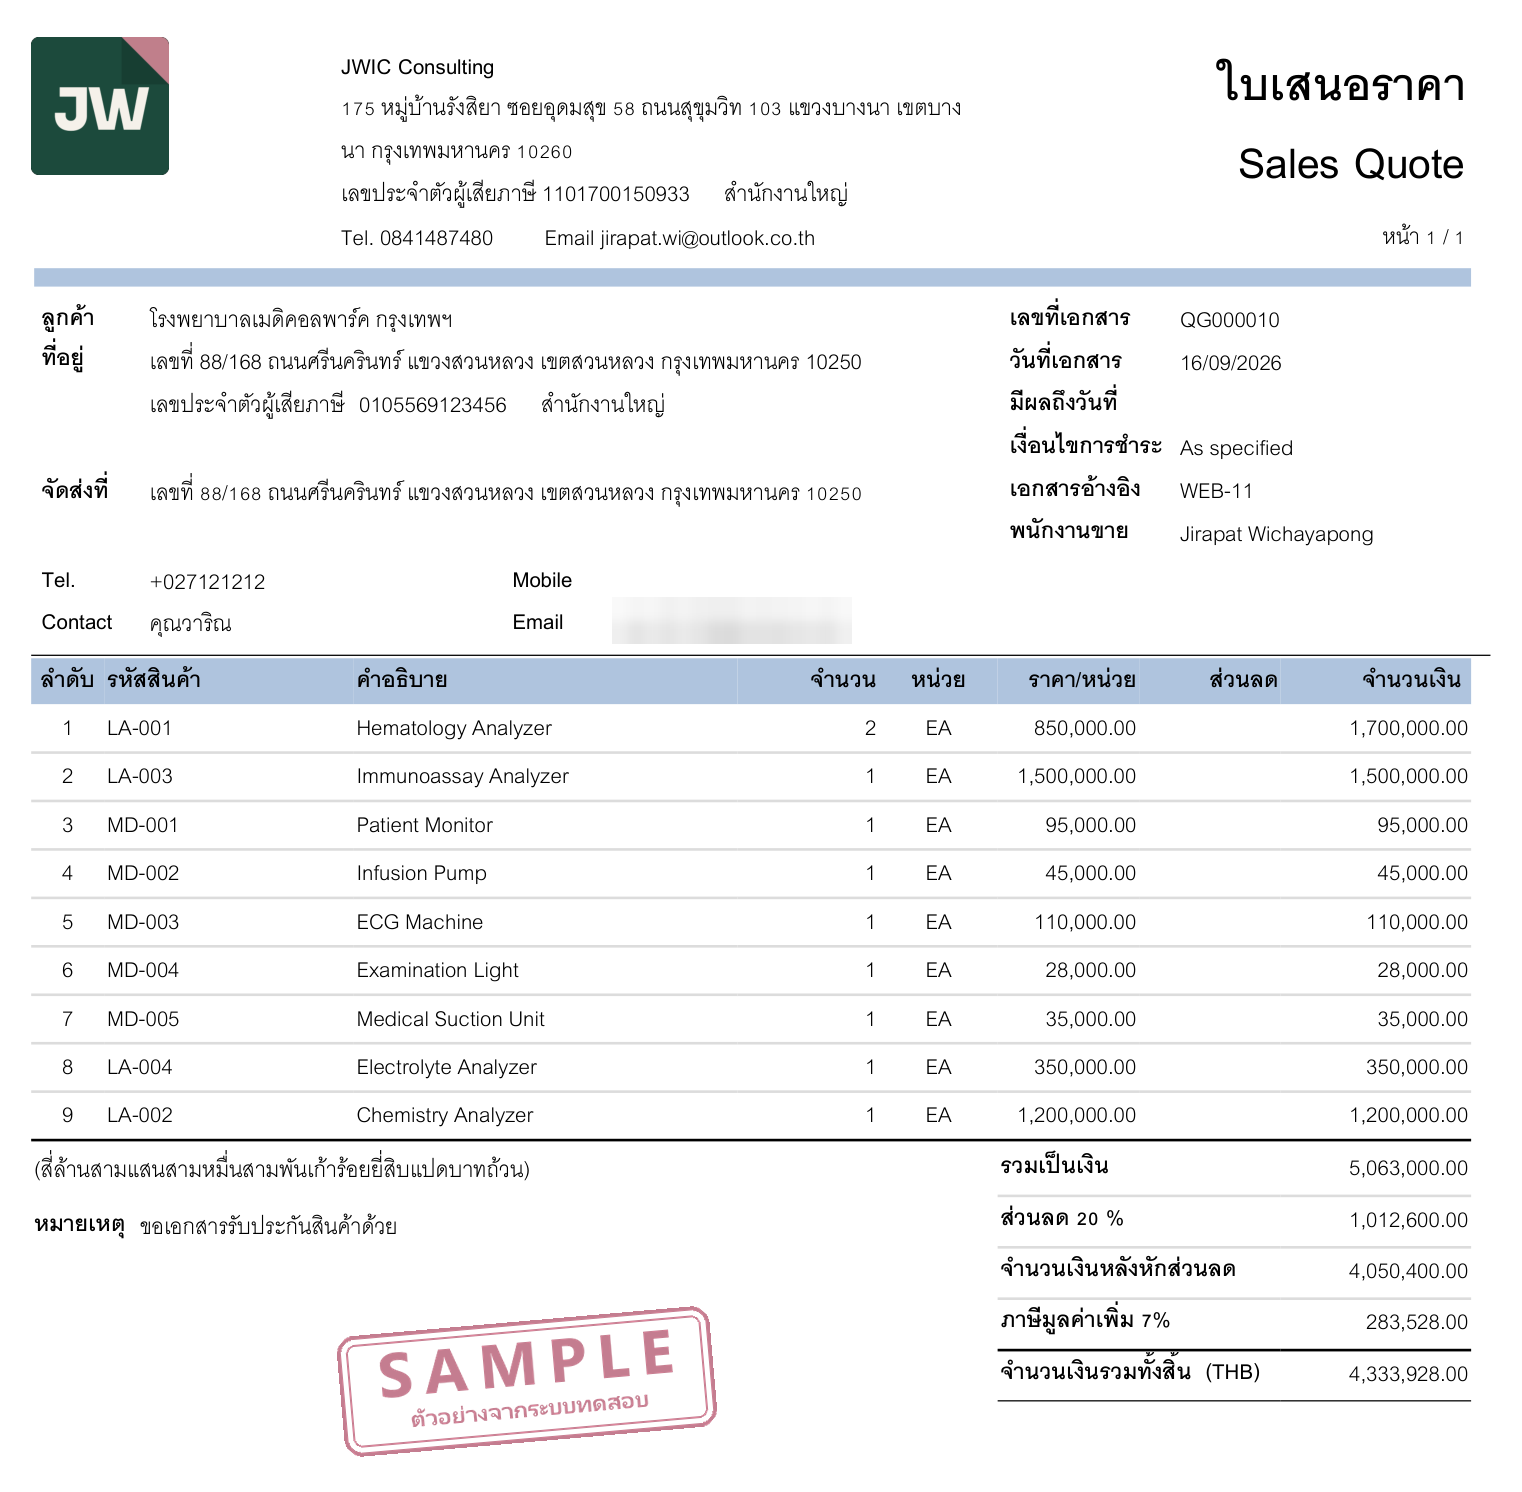
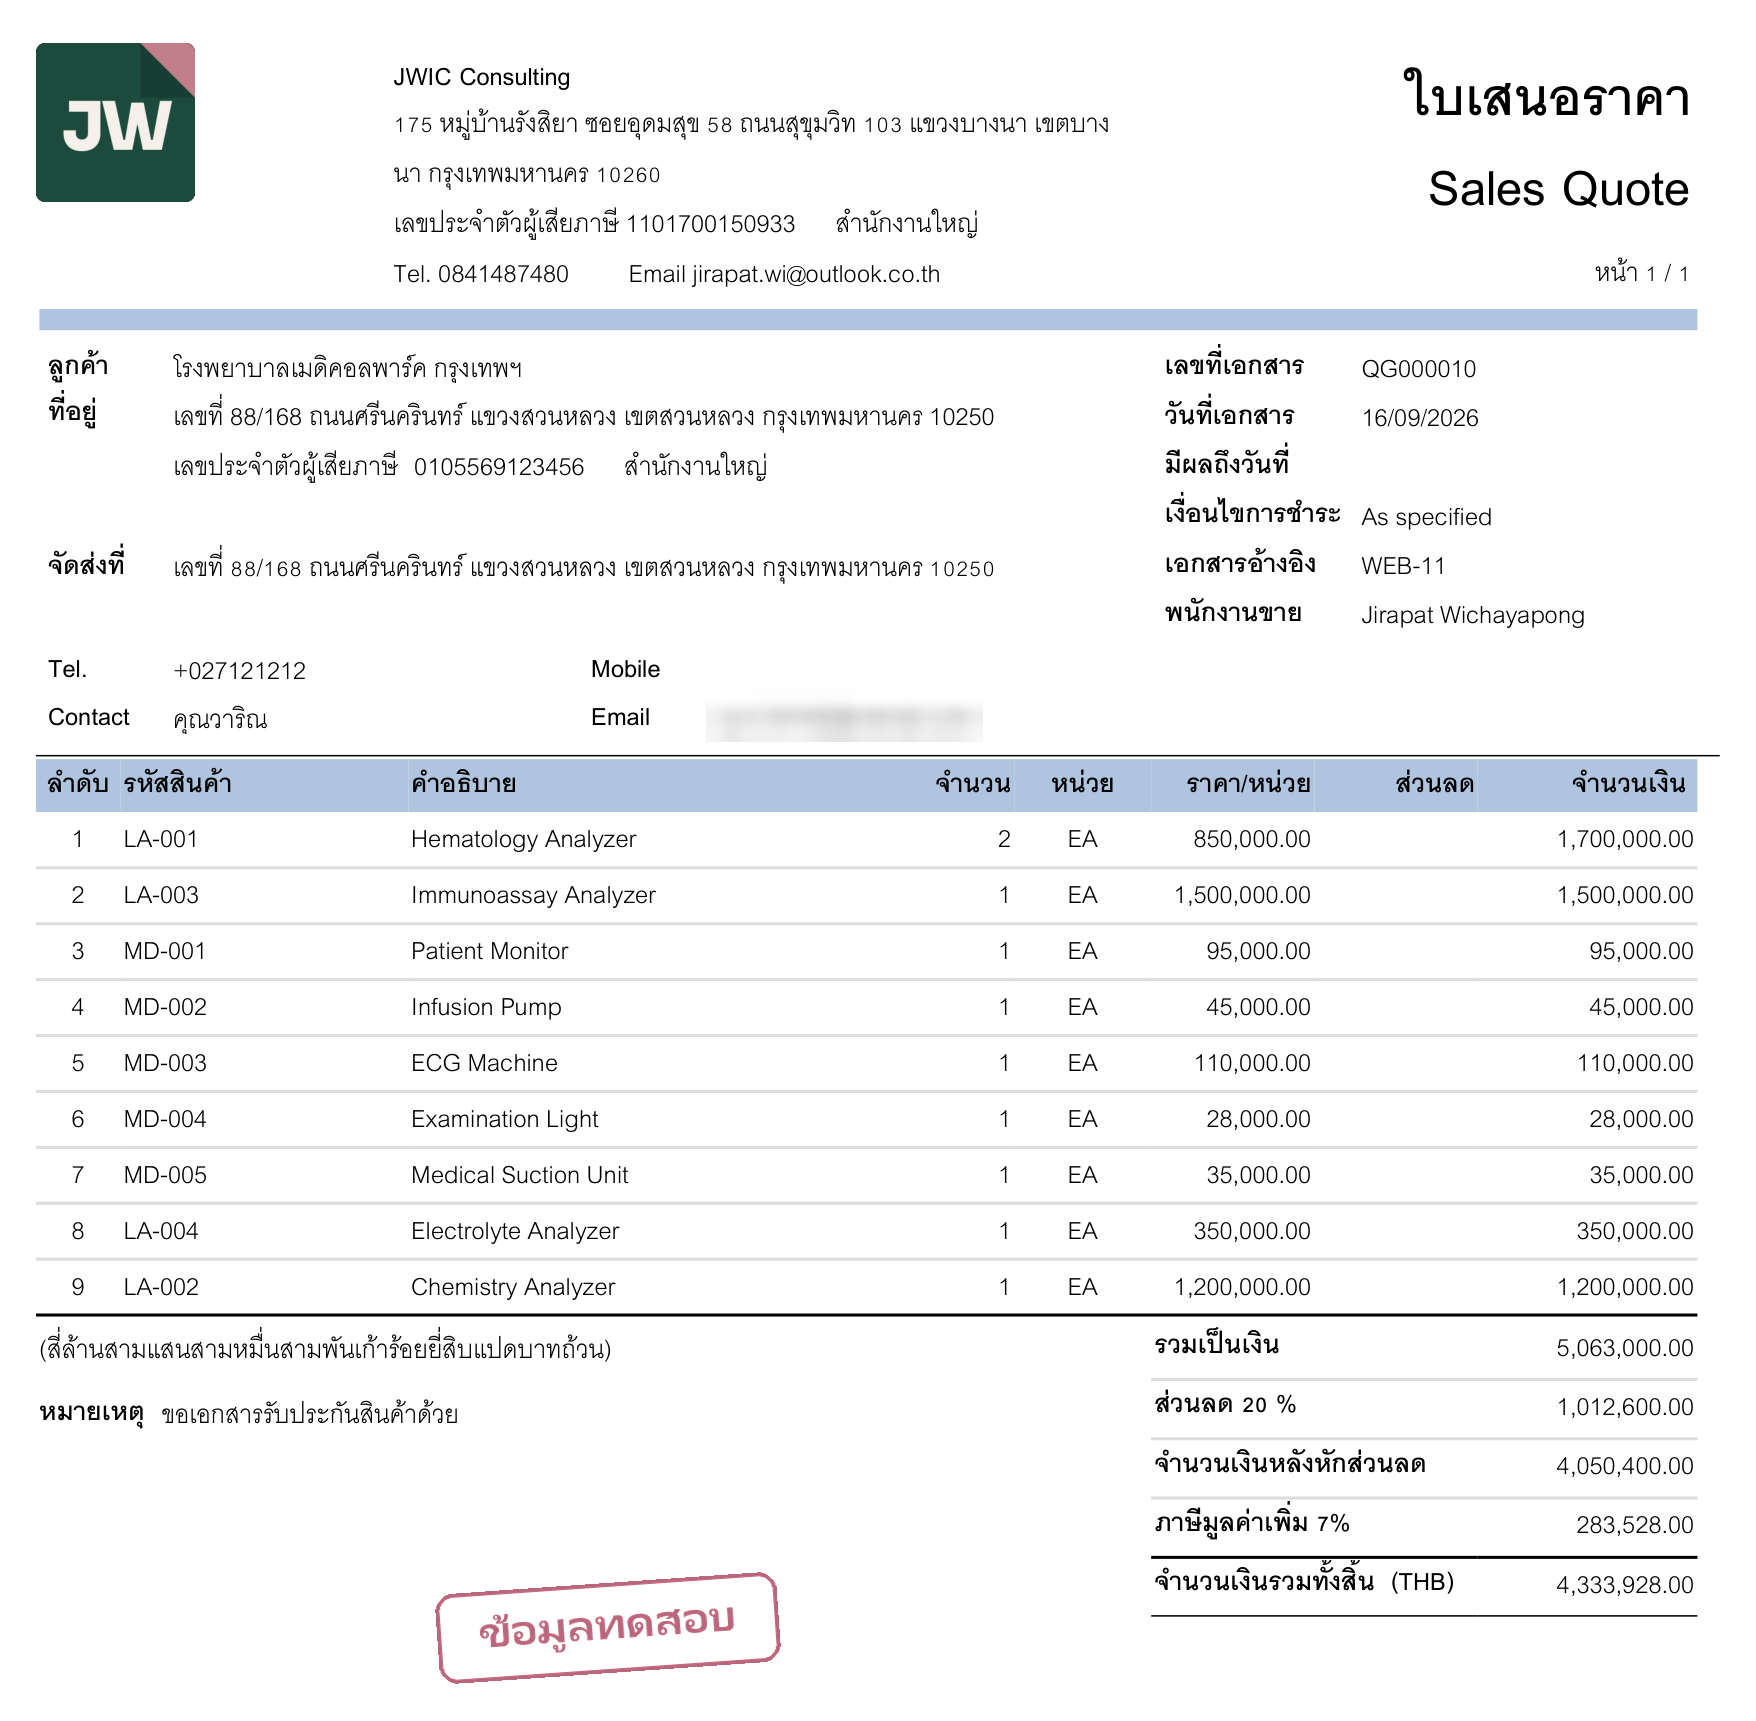
web-quote: ภาพใบเสนอราคาคมขึ้น ป้าย "ข้อมูลทดสอบ" อันเดียว หัวข้อกลางหน้า
- ใบ QG000010 เรนเดอร์ใหม่จาก PDF ที่ 3x (1756 px) ป้ายเหลือข้อความเดียว
  "ข้อมูลทดสอบ" ในที่ว่างใต้หมายเหตุ ไม่ทับตัวเลข
- ต่อ ?v=2 ท้าย URL ภาพ: Pages ส่ง Cache-Control 4 ชม. และชื่อไฟล์นี้
  เคยเป็นภาพ collage เบราว์เซอร์ที่เคยเปิดเลยยังโชว์ภาพเก่า
- หัวเรื่องเป็น "ขอใบเสนอราคาผ่าน LIFF (LINE Front-end Framework)"
  ชื่อเต็มลงบรรทัดใหม่ ตัวเล็กกว่า · หัวข้อทั้งก้อนจัดกลางแบบ Feature 1/2
- คำอธิบายเขียนใหม่ ไม่ใช้คำว่า "โผล่" ทั้งไทยและอังกฤษ

diff --git a/index.html b/index.html
@@ -3138,6 +3138,13 @@
      เดโมฝั่งลูกค้า: กดเลือกสินค้าเอง แล้วเห็น Sales Quote ที่ BC สร้างให้
      คิดเลขในเบราว์เซอร์ล้วน ไม่แตะระบบจริง · โครงการ์ดและสองคอลัมน์ยืมสำนวน .vs
      ฝั่งขวาพื้นเขียวจาง = ฝั่งที่ระบบทำให้ เหมือน .vs-side.rd */
+  #web-quote > .wrap > .section-kicker,
+  #web-quote > .wrap > h2,
+  #web-quote > .wrap > .sub {
+    text-align: center; max-width: 720px; margin-left: auto; margin-right: auto;
+  }
+  /* ชื่อเต็มของ LIFF ยาวเกินจะอยู่บรรทัดเดียวกับหัวเรื่อง — ให้ลงบรรทัดใหม่ ตัวเล็กกว่า สีจางกว่า */
+  .wq-h2-note { display: block; margin-top: .2em; font-size: .5em; font-weight: 500; letter-spacing: 0; color: var(--ui-muted); }
   .wq-ic { width: 18px; height: 18px; flex: 0 0 auto; fill: none; stroke: currentColor;
     stroke-width: 1.8; stroke-linecap: round; stroke-linejoin: round; }
   .wq {
@@ -3920,8 +3927,8 @@
 <section id="web-quote" class="alt">
   <div class="wrap">
     <p class="section-kicker" data-wq="kicker">Highlight Feature 3</p>
-    <h2 data-wq="h2">ขอใบเสนอราคาผ่าน LINE</h2>
-    <p class="sub" data-wq="sub">ลูกค้าเลือกสินค้าเองใน LINE แล้วใบเสนอราคาไปโผล่ใน Business Central — ลองกดเป็นลูกค้าดูได้เลย ไม่ต้องติดตั้งอะไร</p>
+    <h2 data-wq="h2">ขอใบเสนอราคาผ่าน LIFF <span class="wq-h2-note">(LINE Front-end Framework)</span></h2>
+    <p class="sub" data-wq="sub">ลูกค้าเลือกสินค้าเองใน LINE โดยไม่ต้องติดตั้งแอปเพิ่ม แล้ว Business Central ออกใบเสนอราคาให้ทันที ไม่มีใครต้องคีย์ซ้ำ — ลองกดเป็นลูกค้าดูได้เลย</p>
 
     <!-- ไอคอนเก็บเป็น symbol เพราะ JS วาดรายการสินค้า/ท่อ/ใบเสนอราคาใหม่ทุกครั้งที่กด -->
     <svg width="0" height="0" style="position:absolute" aria-hidden="true" focusable="false"><defs>
@@ -3977,8 +3984,9 @@
           <span class="wq-arrow" aria-hidden="true"><svg class="wq-ic"><use href="#wqi-next"/></svg></span>
           <figure class="wq-fig">
             <figcaption><b>02</b><span data-wq="proof2">Business Central ออกใบเสนอราคาให้เอง</span></figcaption>
-            <a class="wq-paper" href="img/bc-liff-quote.webp" target="_blank" rel="noopener">
-              <img src="img/bc-liff-quote.webp" alt="ใบเสนอราคา QG000010 ที่ Business Central สร้างจากคำขอนั้น เก้ารายการ ยอดรวมทั้งสิ้น 4,333,928.00 บาท ช่องอีเมลเบลอไว้" loading="lazy" width="1522" height="1492">
+            <!-- ?v= : Pages ตั้ง cache 4 ชม. และชื่อไฟล์นี้เคยเป็นภาพ collage — เปลี่ยนภาพทีไรให้ขยับเลข -->
+            <a class="wq-paper" href="img/bc-liff-quote.webp?v=2" target="_blank" rel="noopener">
+              <img src="img/bc-liff-quote.webp?v=2" alt="ใบเสนอราคา QG000010 ที่ Business Central สร้างจากคำขอนั้น เก้ารายการ ยอดรวมทั้งสิ้น 4,333,928.00 บาท ประทับว่าข้อมูลทดสอบ ช่องอีเมลเบลอไว้" loading="lazy" width="1756" height="1721">
             </a>
           </figure>
         </div>
@@ -5453,9 +5461,9 @@
 
     const T = {
       kicker: { th: 'Highlight Feature 3', en: 'Highlight Feature 3' },
-      h2: { th: 'ขอใบเสนอราคาผ่าน LINE', en: 'Quotes that start in LINE' },
-      sub: { th: 'ลูกค้าเลือกสินค้าเองใน LINE แล้วใบเสนอราคาไปโผล่ใน Business Central — ลองกดเป็นลูกค้าดูได้เลย ไม่ต้องติดตั้งอะไร',
-             en: 'The buyer picks the items in LINE and the quote lands in Business Central — press through it here as if you were that buyer.' },
+      h2: { th: 'ขอใบเสนอราคาผ่าน LIFF <span class="wq-h2-note">(LINE Front-end Framework)</span>', en: 'Quote Requests via LIFF <span class="wq-h2-note">(LINE Front-end Framework)</span>' },
+      sub: { th: 'ลูกค้าเลือกสินค้าเองใน LINE โดยไม่ต้องติดตั้งแอปเพิ่ม แล้ว Business Central ออกใบเสนอราคาให้ทันที ไม่มีใครต้องคีย์ซ้ำ — ลองกดเป็นลูกค้าดูได้เลย',
+             en: 'Buyers pick their items inside LINE with nothing to install, and Business Central issues the quote on the spot — nobody retypes a thing. Try it below as the buyer.' },
       app: { th: 'LINE LIFF &rarr; Cloudflare Worker &rarr; Business Central', en: 'LINE LIFF &rarr; Cloudflare Worker &rarr; Business Central' },
       sample: { th: 'ข้อมูลตัวอย่าง', en: 'Sample data' },
       s1: { th: 'เลือกสินค้า', en: 'Pick the items' },
